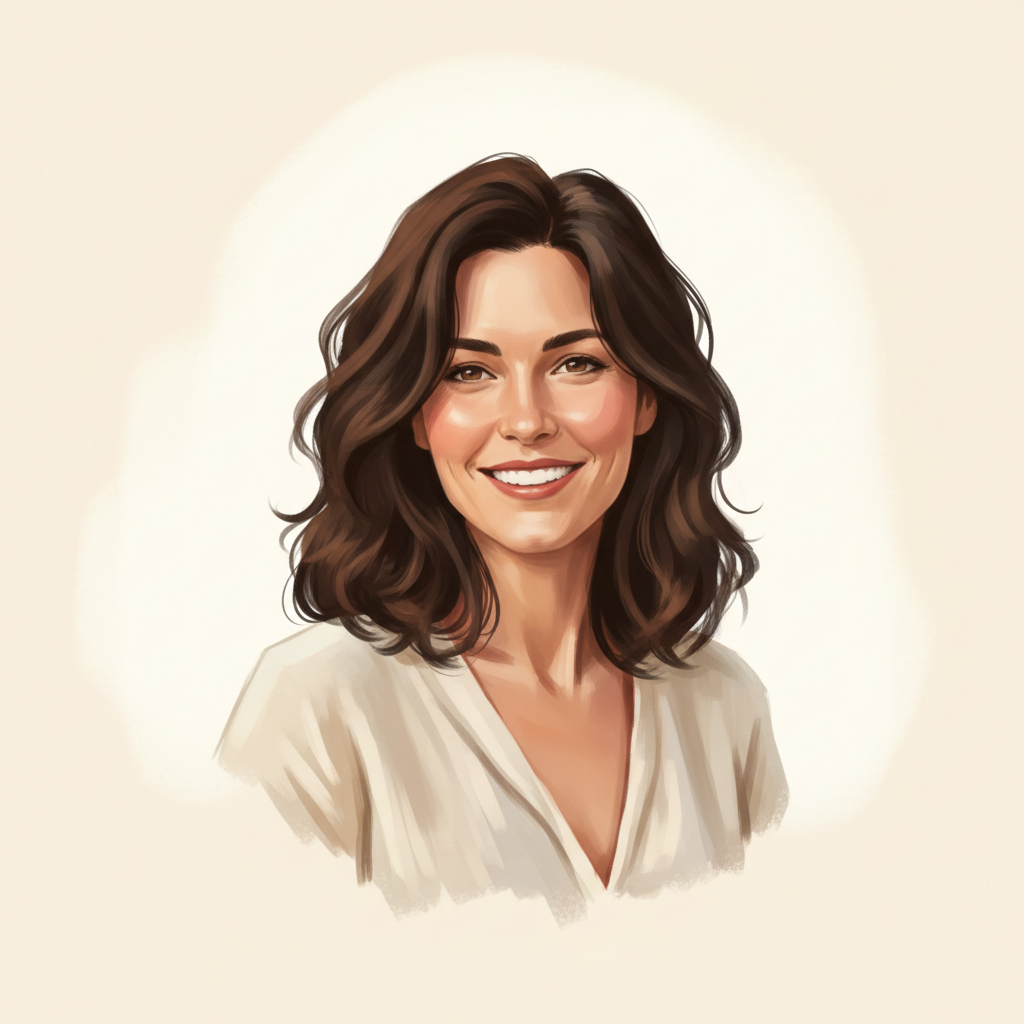
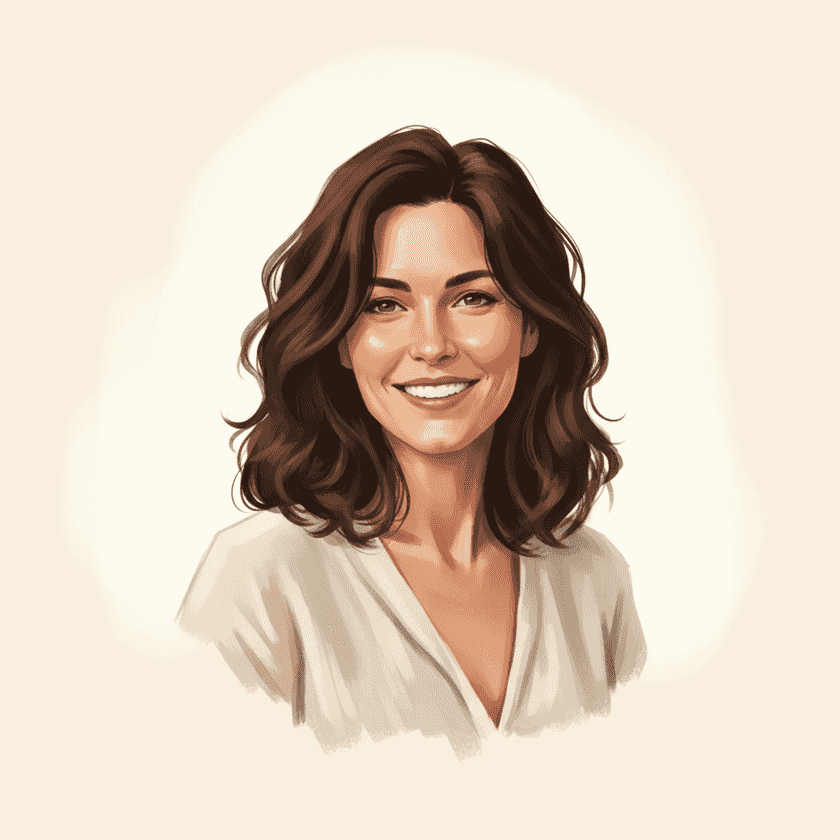
perf(home): never edge-cache a degraded homepage, preload the hero LCP, bound layout loaders
Variant b responses with zero rails and empty featured now return no-store so
a cold-KV page cannot be edge-cached for 10 minutes. Variant b gains the same
responsive hero image preload the legacy home has. The layout loader legs are
bounded with withTimeout so one hung upstream cannot sink every storefront
page. public/emma.png recompressed in place from 992KB to 57KB. Regenerated
server/vercel-entry.mjs build output.

diff --git a/app/routes/_layout._index.tsx b/app/routes/_layout._index.tsx
@@ -97,6 +97,14 @@ const ADMIN_BYPASS_HEADERS = {
   'Vercel-CDN-Cache-Control': 'no-store',
 } as const
 
+// Cold-KV / degraded storefront (variant b) never gets edge-cached — otherwise
+// one unlucky cold-cache render gets pinned at the edge for up to 660s
+// (60s + 600s SWR) and every visitor in that window sees an empty homepage.
+const DEGRADED_NO_STORE_HEADERS = {
+  'Cache-Control': 'no-store, max-age=0',
+  'Vercel-CDN-Cache-Control': 'no-store',
+} as const
+
 // Variant-A "The Compass" assembly (VariantAData, assembleVariantALive,
 // assembleVariantAMinimal, loadVariantAData) now lives in
 // `~/lib/home-discover.server` so the standalone `/discover` route can reuse it.
@@ -126,7 +134,11 @@ export async function loader({ request }: LoaderFunctionArgs) {
   if (variant === 'b') {
     const adminUser = await getAdminUser(request).catch(() => null)
     const value = await assembleStorefrontHome()
-    return adminUser ? data(value, { headers: ADMIN_BYPASS_HEADERS }) : value
+    if (adminUser) return data(value, { headers: ADMIN_BYPASS_HEADERS })
+    // Cold KV / degraded assembly (no rails, no featured product) — never let
+    // the edge cache pin a blank storefront for the next 60s+SWR window.
+    const isDegraded = value.rails.length === 0 && value.featured.length === 0
+    return isDegraded ? data(value, { headers: DEGRADED_NO_STORE_HEADERS }) : value
   }
 
   // ── Legacy path (unchanged) ───────────────────────────────────────────────
@@ -334,7 +346,31 @@ function preloadHeroImageTag(imageUrl: string | undefined | null) {
 export const meta: MetaFunction<typeof loader> = ({ data }) => {
   const canonical = 'https://xdipx.com/'
   // Variant A uses generic brand meta -- no deal-specific fields available.
-  if (!data || data.variant === 'a' || data.variant === 'b' || !('deal' in data) || !data.deal || !('seoTitle' in data.deal)) {
+  if (!data || data.variant === 'a') {
+    return [
+      { title: BRAND_TITLE },
+      { name: 'description', content: BRAND_DESCRIPTION },
+      { tagName: 'link', rel: 'canonical', href: canonical },
+      { tagName: 'link', rel: 'alternate', type: 'text/markdown', href: 'https://xdipx.com/index.md' },
+      ...buildSocialMeta({ title: BRAND_TITLE, description: BRAND_DESCRIPTION, url: canonical, image: null, type: 'website' }),
+    ]
+  }
+  // Variant B (storefront): generic brand meta, but preload the LCP hero image
+  // — the first featured product's image — same AVIF responsive preload as
+  // the legacy/deal home gets for its hero. Guarded for empty featured (cold
+  // KV / degraded render).
+  if (data.variant === 'b') {
+    const heroPreload = preloadHeroImageTag(data.featured[0]?.imageUrl)
+    return [
+      { title: BRAND_TITLE },
+      { name: 'description', content: BRAND_DESCRIPTION },
+      { tagName: 'link', rel: 'canonical', href: canonical },
+      { tagName: 'link', rel: 'alternate', type: 'text/markdown', href: 'https://xdipx.com/index.md' },
+      ...(heroPreload ? [heroPreload] : []),
+      ...buildSocialMeta({ title: BRAND_TITLE, description: BRAND_DESCRIPTION, url: canonical, image: null, type: 'website' }),
+    ]
+  }
+  if (!('deal' in data) || !data.deal || !('seoTitle' in data.deal)) {
     return [
       { title: BRAND_TITLE },
       { name: 'description', content: BRAND_DESCRIPTION },

diff --git a/app/routes/_layout.tsx b/app/routes/_layout.tsx
@@ -19,10 +19,17 @@ import { OrganizationStructuredData } from '~/components/seo/OrganizationStructu
 import { WebsiteStructuredData }      from '~/components/seo/WebsiteStructuredData'
 import { getEmmaPersona, getHomepageSections, getSiteSettings, isPreviewRequest } from '~/lib/sanity.server'
 import { getAccessoryProducts, getMainMenu } from '~/lib/shopify.server'
+import type { ShopifyMenuItem } from '~/lib/shopify.server'
 import { getPinnedAccessoryIds } from '~/lib/kv.server'
 import { SessionProvider } from '~/lib/session-context'
+import { withTimeout } from '~/lib/with-timeout.server'
 import type { Product } from '~/types'
 import type { AnnouncementBarBlock, MegaMenuBanner, SocialLink, FooterColumn, SiteBanner as SiteBannerData } from '~/types/cms'
+
+// Every storefront page routes through this layout loader, so a hung upstream
+// here sinks every page, not just the homepage. Bound each leg the same way
+// the homepage loader does (see `~/lib/with-timeout.server`).
+const LAYOUT_TIMEOUT_MS = 8000
 
 export async function loader({ request }: LoaderFunctionArgs) {
   const preview  = isPreviewRequest(request)
@@ -30,11 +37,13 @@ export async function loader({ request }: LoaderFunctionArgs) {
   // Promise.all so we can fan accessories in parallel with everything else.
   const pinnedIds = (await getPinnedAccessoryIds()) ?? []
   const [cms, settings, menuItems, upsells, emmaPersona] = await Promise.all([
-    getHomepageSections(preview),
-    getSiteSettings(),
-    getMainMenu(),
-    pinnedIds.length ? getAccessoryProducts(pinnedIds.slice(0, 4)) : Promise.resolve<Product[]>([]),
-    getEmmaPersona(),
+    withTimeout(getHomepageSections(preview), LAYOUT_TIMEOUT_MS, null, 'getHomepageSections(layout)'),
+    withTimeout(getSiteSettings(), LAYOUT_TIMEOUT_MS, null, 'getSiteSettings'),
+    withTimeout(getMainMenu(), LAYOUT_TIMEOUT_MS, [] as ShopifyMenuItem[], 'getMainMenu'),
+    pinnedIds.length
+      ? withTimeout(getAccessoryProducts(pinnedIds.slice(0, 4)), LAYOUT_TIMEOUT_MS, [] as Product[], 'getAccessoryProducts')
+      : Promise.resolve<Product[]>([]),
+    withTimeout(getEmmaPersona(), LAYOUT_TIMEOUT_MS, null, 'getEmmaPersona'),
   ])
 
   const announcementBar = cms?.sections.find(
